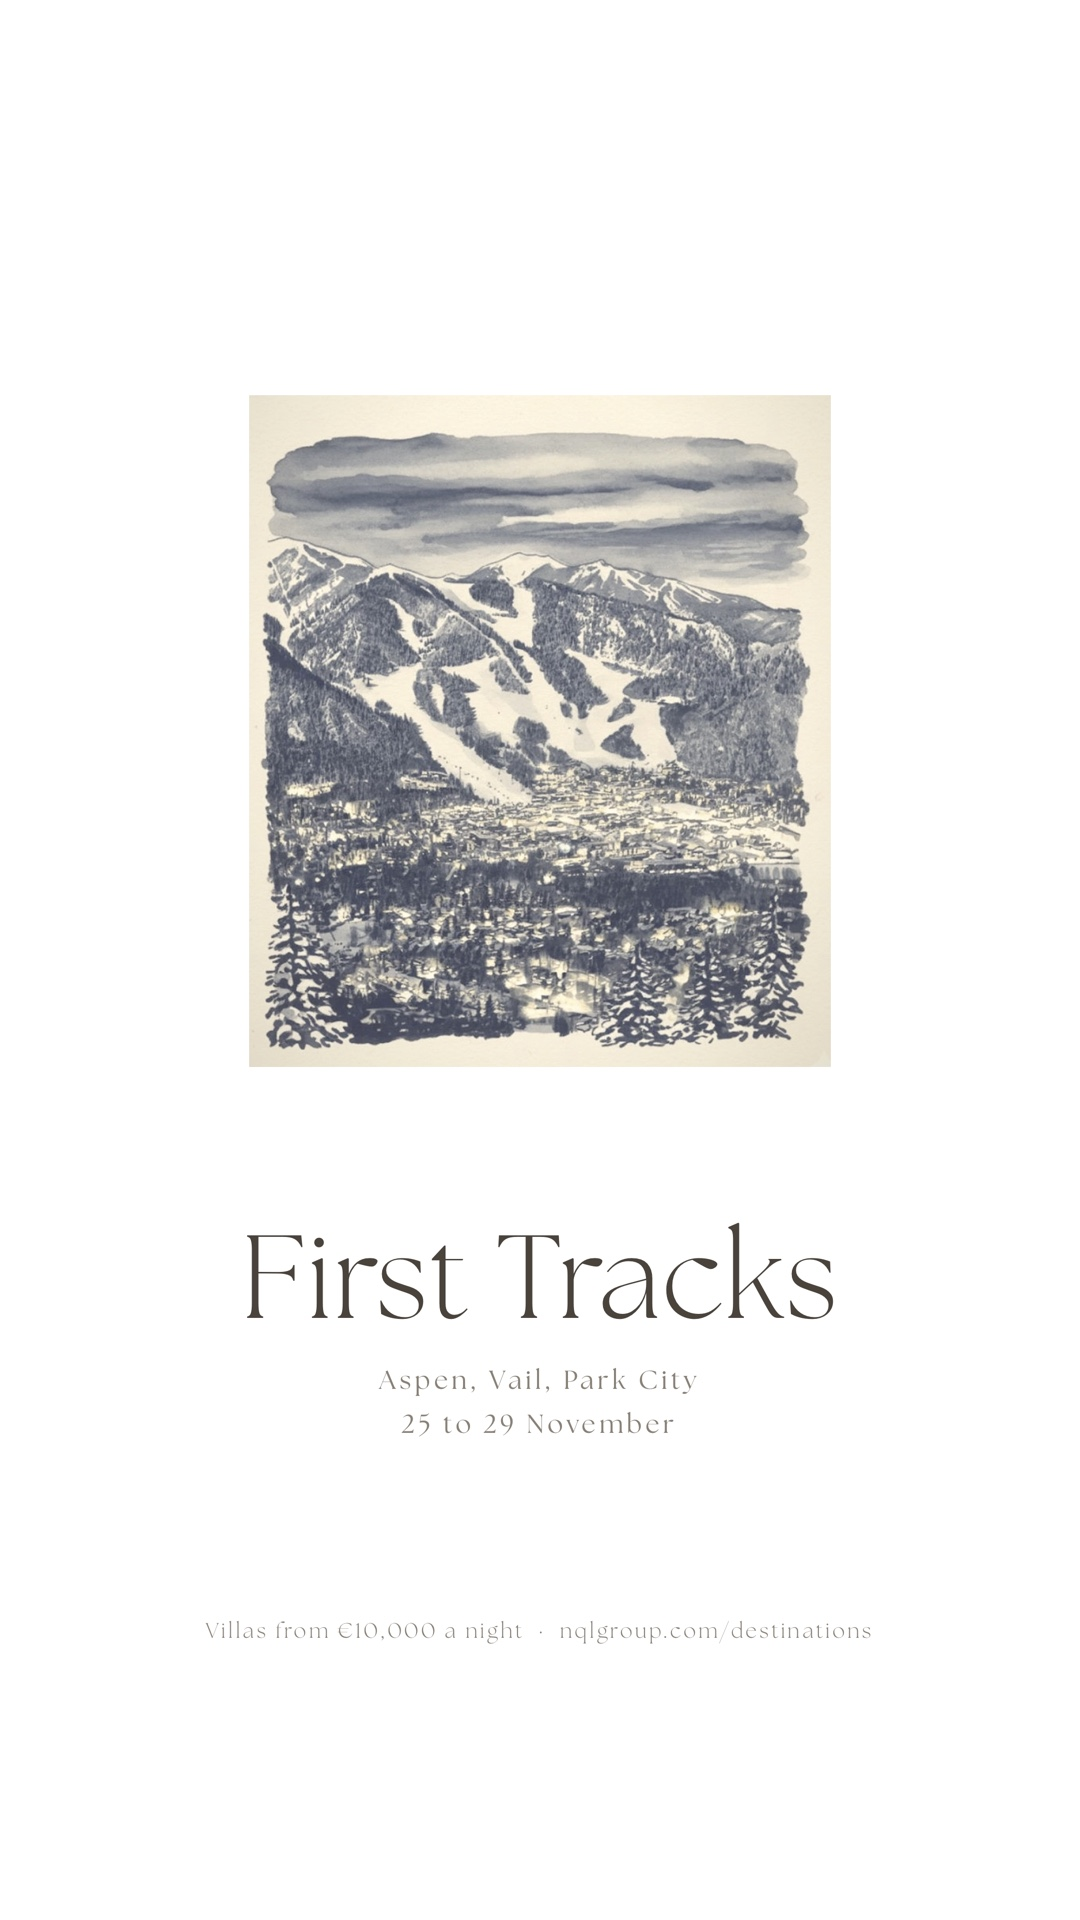
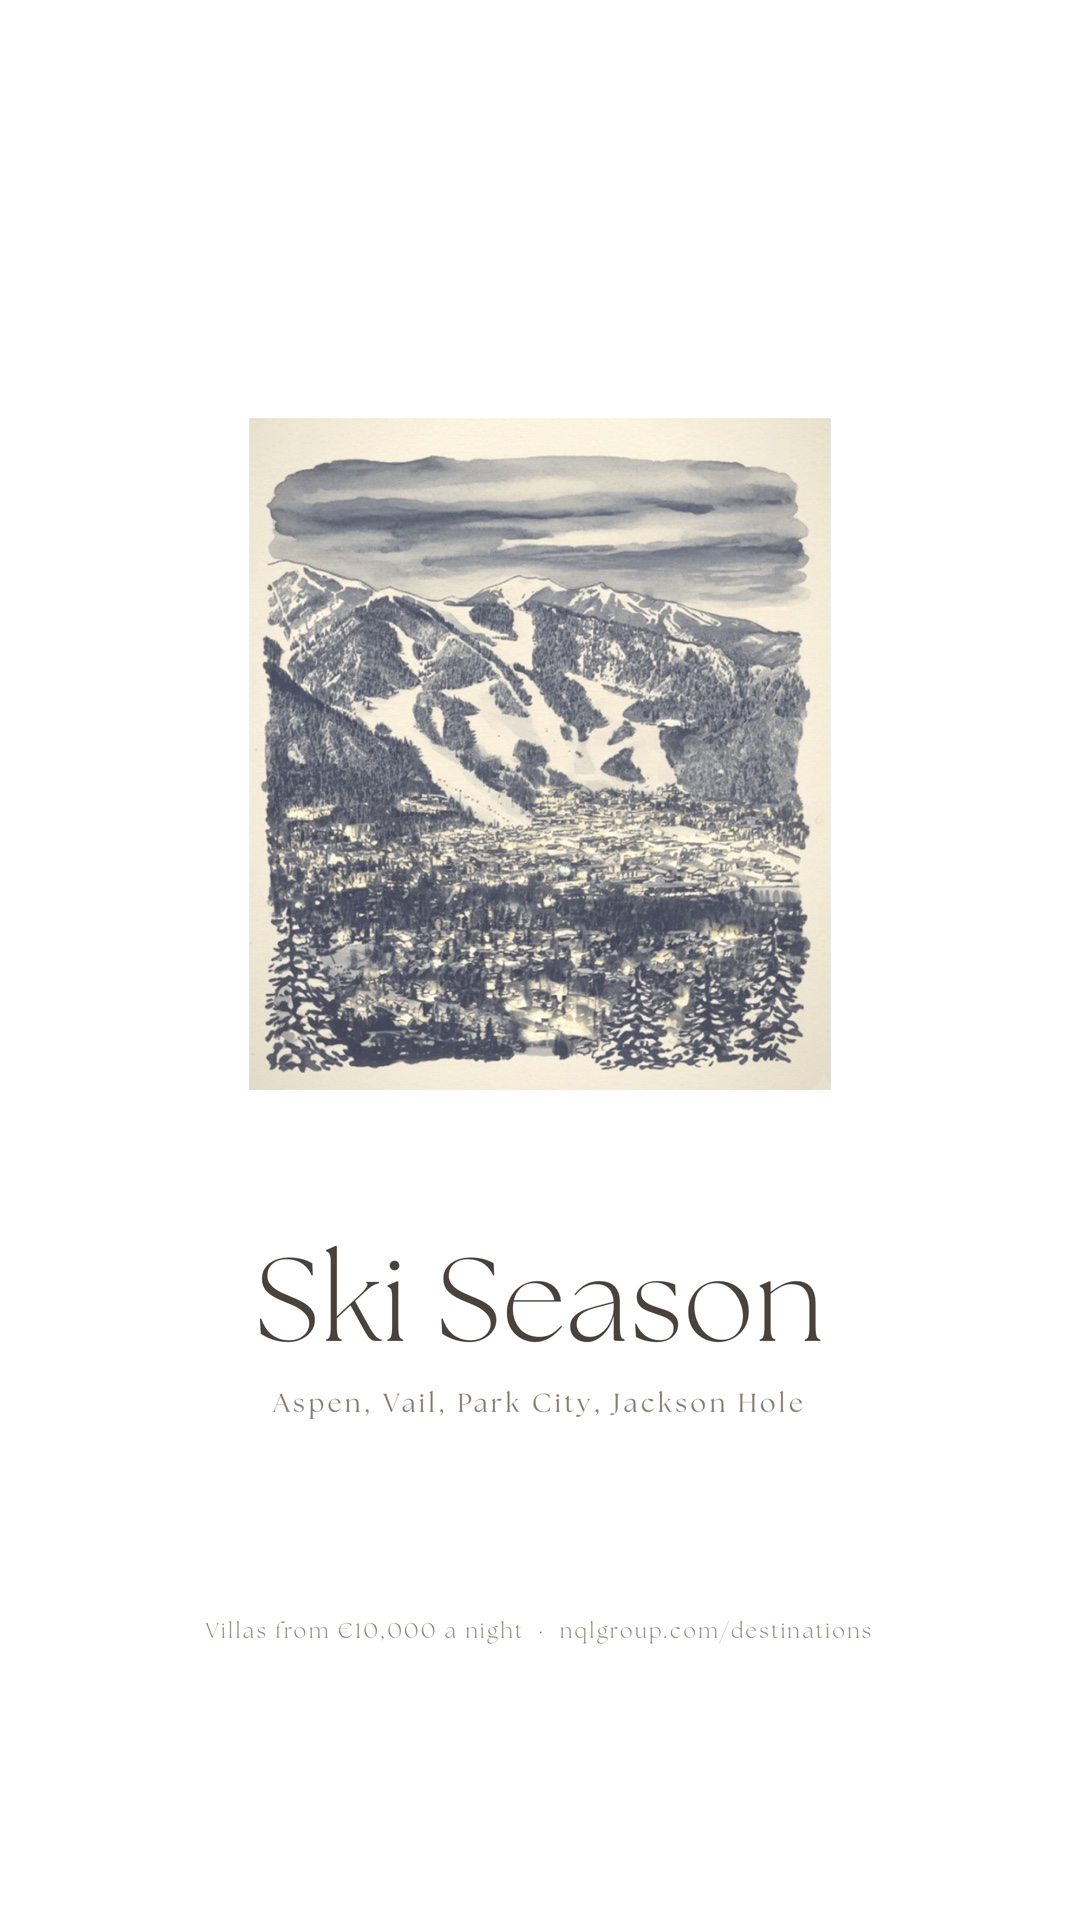
All four posts say Ski Season with the American ski places

Changed region(s): [[0.2139, 0.1875, 0.7639, 0.5938], [0.2139, 0.625, 0.7639, 0.75]]

diff --git a/marketing/stories/03-festive-chalet-story.html b/marketing/stories/03-festive-chalet-story.html
@@ -14,6 +14,6 @@ body { background: #FFFFFF; color: #4A433B; font-family: "Seasons", Georgia, ser
 .when { font-size: 26px; letter-spacing: .14em; color: #8A8176; margin-top: 10px; }
 .foot { position:absolute; left:0; right:0; text-align:center; font-size: 21px; letter-spacing: .12em; color: #8A8176; font-weight: 300; }
 </style></head><body>
-<div class="art" style="left:182px; top:426px; width:716px; height:609px"><img src="art/sent-chairs-crop.png" style="object-position:50% 60%"></div>
-<div class="text" style="top:1185px"><div class="h">For the team</div><div class="line">Aspen, Vail, Park City, Jackson Hole</div><div class="when">January</div></div>
-<div class="foot" style="bottom:276px">Villas from €10,000 a night &nbsp;·&nbsp; nqlgroup.com/winter</div></body></html>
+<div class="art" style="left:182px; top:449px; width:716px; height:609px"><img src="art/sent-chairs-crop.png" style="object-position:50% 60%"></div>
+<div class="text" style="top:1208px"><div class="h">Ski Season</div><div class="line">Aspen, Vail, Park City, Jackson Hole</div></div>
+<div class="foot" style="bottom:276px">Villas from €10,000 a night &nbsp;·&nbsp; nqlgroup.com/destinations</div></body></html>

diff --git a/marketing/stories/03-festive-chalet-feed.html b/marketing/stories/03-festive-chalet-feed.html
@@ -14,6 +14,6 @@ body { background: #FFFFFF; color: #4A433B; font-family: "Seasons", Georgia, ser
 .when { font-size: 21px; letter-spacing: .14em; color: #8A8176; margin-top: 8px; }
 .foot { position:absolute; left:0; right:0; text-align:center; font-size: 17px; letter-spacing: .12em; color: #8A8176; font-weight: 300; }
 </style></head><body>
-<div class="art" style="left:220px; top:233px; width:640px; height:544px"><img src="art/sent-chairs-crop.png" style="object-position:50% 60%"></div>
-<div class="text" style="top:899px"><div class="h">For the team</div><div class="line">Aspen, Vail, Park City, Jackson Hole</div><div class="when">January</div></div>
-<div class="foot" style="bottom:61px">Villas from €10,000 a night &nbsp;·&nbsp; nqlgroup.com/winter</div></body></html>
+<div class="art" style="left:220px; top:252px; width:640px; height:544px"><img src="art/sent-chairs-crop.png" style="object-position:50% 60%"></div>
+<div class="text" style="top:918px"><div class="h">Ski Season</div><div class="line">Aspen, Vail, Park City, Jackson Hole</div></div>
+<div class="foot" style="bottom:61px">Villas from €10,000 a night &nbsp;·&nbsp; nqlgroup.com/destinations</div></body></html>

diff --git a/marketing/stories/01-aspen-first-tracks-story.html b/marketing/stories/01-aspen-first-tracks-story.html
@@ -14,6 +14,6 @@ body { background: #FFFFFF; color: #4A433B; font-family: "Seasons", Georgia, ser
 .when { font-size: 26px; letter-spacing: .14em; color: #8A8176; margin-top: 10px; }
 .foot { position:absolute; left:0; right:0; text-align:center; font-size: 21px; letter-spacing: .12em; color: #8A8176; font-weight: 300; }
 </style></head><body>
-<div class="art" style="left:249px; top:395px; width:582px; height:672px"><img src="art/sent-aspen-crop.png" style="object-position:50% 40%"></div>
-<div class="text" style="top:1217px"><div class="h">First Tracks</div><div class="line">Aspen, Vail, Park City</div><div class="when">25 to 29 November</div></div>
-<div class="foot" style="bottom:276px">Villas from €10,000 a night &nbsp;·&nbsp; nqlgroup.com/winter</div></body></html>
+<div class="art" style="left:249px; top:418px; width:582px; height:672px"><img src="art/sent-aspen-crop.png" style="object-position:50% 40%"></div>
+<div class="text" style="top:1240px"><div class="h">Ski Season</div><div class="line">Aspen, Vail, Park City, Jackson Hole</div></div>
+<div class="foot" style="bottom:276px">Villas from €10,000 a night &nbsp;·&nbsp; nqlgroup.com/destinations</div></body></html>

diff --git a/marketing/stories/01-aspen-first-tracks-feed.html b/marketing/stories/01-aspen-first-tracks-feed.html
@@ -14,6 +14,6 @@ body { background: #FFFFFF; color: #4A433B; font-family: "Seasons", Georgia, ser
 .when { font-size: 21px; letter-spacing: .14em; color: #8A8176; margin-top: 8px; }
 .foot { position:absolute; left:0; right:0; text-align:center; font-size: 17px; letter-spacing: .12em; color: #8A8176; font-weight: 300; }
 </style></head><body>
-<div class="art" style="left:280px; top:205px; width:520px; height:600px"><img src="art/sent-aspen-crop.png" style="object-position:50% 40%"></div>
-<div class="text" style="top:927px"><div class="h">First Tracks</div><div class="line">Aspen, Vail, Park City</div><div class="when">25 to 29 November</div></div>
-<div class="foot" style="bottom:61px">Villas from €10,000 a night &nbsp;·&nbsp; nqlgroup.com/winter</div></body></html>
+<div class="art" style="left:280px; top:224px; width:520px; height:600px"><img src="art/sent-aspen-crop.png" style="object-position:50% 40%"></div>
+<div class="text" style="top:946px"><div class="h">Ski Season</div><div class="line">Aspen, Vail, Park City, Jackson Hole</div></div>
+<div class="foot" style="bottom:61px">Villas from €10,000 a night &nbsp;·&nbsp; nqlgroup.com/destinations</div></body></html>

diff --git a/marketing/stories/02-st-moritz-white-turf-story.html b/marketing/stories/02-st-moritz-white-turf-story.html
@@ -14,6 +14,6 @@ body { background: #FFFFFF; color: #4A433B; font-family: "Seasons", Georgia, ser
 .when { font-size: 26px; letter-spacing: .14em; color: #8A8176; margin-top: 10px; }
 .foot { position:absolute; left:0; right:0; text-align:center; font-size: 21px; letter-spacing: .12em; color: #8A8176; font-weight: 300; }
 </style></head><body>
-<div class="art" style="left:204px; top:440px; width:672px; height:582px"><img src="art/stmoritz.png" style="object-position:50% 50%"></div>
-<div class="text" style="top:1172px"><div class="h">White Turf</div><div class="line">St. Moritz</div><div class="when">February Sundays</div></div>
-<div class="foot" style="bottom:276px">Villas from €10,000 a night &nbsp;·&nbsp; nqlgroup.com/winter</div></body></html>
+<div class="art" style="left:204px; top:463px; width:672px; height:582px"><img src="art/stmoritz.png" style="object-position:50% 50%"></div>
+<div class="text" style="top:1195px"><div class="h">Ski Season</div><div class="line">Aspen, Vail, Park City, Jackson Hole</div></div>
+<div class="foot" style="bottom:276px">Villas from €10,000 a night &nbsp;·&nbsp; nqlgroup.com/destinations</div></body></html>

diff --git a/marketing/stories/02-st-moritz-white-turf-feed.html b/marketing/stories/02-st-moritz-white-turf-feed.html
@@ -14,6 +14,6 @@ body { background: #FFFFFF; color: #4A433B; font-family: "Seasons", Georgia, ser
 .when { font-size: 21px; letter-spacing: .14em; color: #8A8176; margin-top: 8px; }
 .foot { position:absolute; left:0; right:0; text-align:center; font-size: 17px; letter-spacing: .12em; color: #8A8176; font-weight: 300; }
 </style></head><body>
-<div class="art" style="left:240px; top:245px; width:600px; height:520px"><img src="art/stmoritz.png" style="object-position:50% 50%"></div>
-<div class="text" style="top:887px"><div class="h">White Turf</div><div class="line">St. Moritz</div><div class="when">February Sundays</div></div>
-<div class="foot" style="bottom:61px">Villas from €10,000 a night &nbsp;·&nbsp; nqlgroup.com/winter</div></body></html>
+<div class="art" style="left:240px; top:264px; width:600px; height:520px"><img src="art/stmoritz.png" style="object-position:50% 50%"></div>
+<div class="text" style="top:906px"><div class="h">Ski Season</div><div class="line">Aspen, Vail, Park City, Jackson Hole</div></div>
+<div class="foot" style="bottom:61px">Villas from €10,000 a night &nbsp;·&nbsp; nqlgroup.com/destinations</div></body></html>

diff --git a/marketing/stories/04-ski-season-red-car-story.html b/marketing/stories/04-ski-season-red-car-story.html
@@ -16,4 +16,4 @@ body { background: #FFFFFF; color: #4A433B; font-family: "Seasons", Georgia, ser
 </style></head><body>
 <div class="art" style="left:137px; top:495px; width:806px; height:518px"><img src="art/sent-car-crop.png" style="object-position:50% 50%"></div>
 <div class="text" style="top:1163px"><div class="h">Ski Season</div><div class="line">Aspen, Vail, Park City, Jackson Hole</div></div>
-<div class="foot" style="bottom:276px">Villas from €10,000 a night &nbsp;·&nbsp; nqlgroup.com/winter</div></body></html>
+<div class="foot" style="bottom:276px">Villas from €10,000 a night &nbsp;·&nbsp; nqlgroup.com/destinations</div></body></html>

diff --git a/marketing/stories/04-ski-season-red-car-feed.html b/marketing/stories/04-ski-season-red-car-feed.html
@@ -16,4 +16,4 @@ body { background: #FFFFFF; color: #4A433B; font-family: "Seasons", Georgia, ser
 </style></head><body>
 <div class="art" style="left:180px; top:292px; width:720px; height:463px"><img src="art/sent-car-crop.png" style="object-position:50% 50%"></div>
 <div class="text" style="top:877px"><div class="h">Ski Season</div><div class="line">Aspen, Vail, Park City, Jackson Hole</div></div>
-<div class="foot" style="bottom:61px">Villas from €10,000 a night &nbsp;·&nbsp; nqlgroup.com/winter</div></body></html>
+<div class="foot" style="bottom:61px">Villas from €10,000 a night &nbsp;·&nbsp; nqlgroup.com/destinations</div></body></html>

diff --git a/marketing/stories/build.py b/marketing/stories/build.py
@@ -12,9 +12,11 @@ FORMATS = {"story": (1080, 1920), "feed": (1080, 1350)}
 
 # name: art file, object-position, headline, places, when, feed frame (w, h)
 POSTS = {
-    "01-aspen-first-tracks": ("sent-aspen-crop.png", "50% 40%", "First Tracks", "Aspen, Vail, Park City", "25 to 29 November", (520, 600)),
-    "02-st-moritz-white-turf": ("stmoritz.png", "50% 50%", "White Turf", "St. Moritz", "February Sundays", (600, 520)),
-    "03-festive-chalet": ("sent-chairs-crop.png", "50% 60%", "For the team", "Aspen, Vail, Park City, Jackson Hole", "January", (640, 544)),
+    # 2 Nov 2026, Mirza: "i want all of them to be ski season". Same headline
+    # and places on all four; only the picture and its frame differ.
+    "01-aspen-first-tracks": ("sent-aspen-crop.png", "50% 40%", "Ski Season", "Aspen, Vail, Park City, Jackson Hole", "", (520, 600)),
+    "02-st-moritz-white-turf": ("stmoritz.png", "50% 50%", "Ski Season", "Aspen, Vail, Park City, Jackson Hole", "", (600, 520)),
+    "03-festive-chalet": ("sent-chairs-crop.png", "50% 60%", "Ski Season", "Aspen, Vail, Park City, Jackson Hole", "", (640, 544)),
     "04-ski-season-red-car": ("sent-car-crop.png", "50% 50%", "Ski Season", "Aspen, Vail, Park City, Jackson Hole", "", (720, 463)),
 }
 
